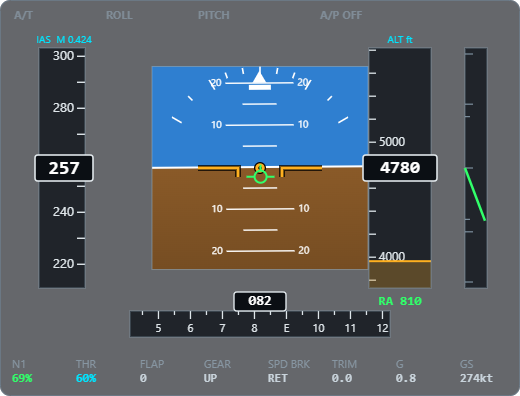
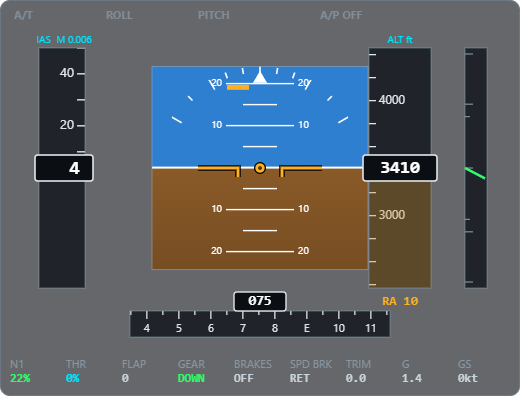
improved take-off somewhat

diff --git a/src/aircraft.js b/src/aircraft.js
@@ -108,6 +108,50 @@ export class Aircraft {
 
   get grossMass() { return OEW + PAYLOAD + this.fuel; }
 
+  /** Lift/drag/moment increments for the flap position currently deployed. */
+  flapCoeffs() {
+    let hi = FLAP_SETTINGS.findIndex(v => v >= this.flapActual - 1e-6);
+    if (hi < 0) hi = FLAP_SETTINGS.length - 1;
+    const lo = Math.max(0, hi - 1);
+    const span = FLAP_SETTINGS[hi] - FLAP_SETTINGS[lo] || 1;
+    const fr = clamp((this.flapActual - FLAP_SETTINGS[lo]) / span, 0, 1);
+    const l = arr => arr[lo] + (arr[hi] - arr[lo]) * fr;
+    return { dCL: l(FLAP_DCL), dCD: l(FLAP_DCD), dCm: l(FLAP_DCM), dAstall: l(FLAP_DASTALL) };
+  }
+
+  /**
+   * Put the aeroplane into hands-off, wings-level, 1 g flight: pitch attitude at
+   * the trim angle of attack, stabiliser trimmed to zero the pitching moment,
+   * and thrust set to balance drag. Without this you start out of trim and sink.
+   */
+  trimLevel(speed) {
+    const g = 9.80665;
+    const alt = Math.max(this.pos.y, 0);
+    const { rho, a } = isa(alt);
+    const V = Math.max(speed ?? this.vel.length(), 90);
+    const f = this.flapCoeffs();
+    const qbar = 0.5 * rho * V * V;
+
+    const CL = clamp(this.grossMass * g / (qbar * S), 0.05, 1.5);
+    const alpha = clamp((CL - 0.22 - f.dCL) / 5.35, -0.05, 0.20);
+    this.elevTrim = clamp(-(0.045 + f.dCm - 1.35 * alpha) / 0.30, -0.5, 0.5);
+
+    const hdg = this.headingDeg * Math.PI / 180;
+    this.quat.setFromEuler(new THREE.Euler(alpha, -hdg, 0, 'YXZ'));
+    this.vel.set(Math.sin(hdg) * V, 0, -Math.cos(hdg) * V);
+    this.omega.set(0, 0, 0);
+    this.elevator = 0; this.aileron = 0; this.rudder = 0;
+
+    const AR = B * B / S;
+    const k = 1 / (Math.PI * 0.80 * AR);
+    const CD = 0.0205 + f.dCD + 0.021 * this.gearPos + k * CL * CL;
+    const drag = qbar * S * CD;
+    const avail = 2 * T_MAX_ENG * Math.pow(rho / 1.225, 0.85) * (1 - 0.28 * clamp(V / a, 0, 0.9));
+    const n1 = 20 + 80 * Math.pow(clamp(drag / avail, 0, 1), 1 / 3);
+    this.n1 = [n1, n1];
+    this.throttle = clamp((n1 - 21) / 79, 0, 1);
+  }
+
   placeOnRunway(ap) {
     const dir = new THREE.Vector3(Math.sin(ap.hdg), 0, -Math.cos(ap.hdg));
     this.pos.set(ap.x - dir.x * 1200, ap.elev + 3.2, ap.z - dir.z * 1200);
@@ -117,8 +161,10 @@ export class Aircraft {
     this.throttle = 0; this.n1 = [22, 22];
     this.gearDown = true; this.gearPos = 1;
     this.flapIndex = 0; this.flapActual = 0;
-    this.parkBrake = true;
     this.resetTransient();
+    // Deliberately released: a parking brake at spawn silently makes the
+    // aeroplane un-takeoffable, and the annunciator only helps if you set it.
+    this.parkBrake = false;
   }
 
   resetTransient() {
@@ -133,17 +179,26 @@ export class Aircraft {
   placeAirborne(ap, distNM = 12, altFt = 6000) {
     const dir = new THREE.Vector3(Math.sin(ap.hdg), 0, -Math.cos(ap.hdg));
     const d = distNM * 1852;
-    this.pos.set(ap.x - dir.x * d, ap.elev + altFt * FT, ap.z - dir.z * d);
+
+    // Stay clear of whatever is between here and the field — inbound terrain can
+    // easily be higher than the airport, and starting inside a ridge is fatal.
+    let highest = ap.elev;
+    for (let s = 0; s <= 1.0001; s += 0.04) {
+      highest = Math.max(highest, terrainHeight(ap.x - dir.x * d * s, ap.z - dir.z * d * s));
+    }
+    const y = Math.max(ap.elev + altFt * FT, highest + 750);
+
+    this.pos.set(ap.x - dir.x * d, y, ap.z - dir.z * d);
     this.quat.setFromAxisAngle(new THREE.Vector3(0, 1, 0), -ap.hdg);
     this.vel.copy(dir).multiplyScalar(140);
-    this.omega.set(0, 0, 0);
-    this.throttle = 0.6; this.n1 = [70, 70];
     this.gearDown = false; this.gearPos = 0;
     this.flapIndex = 0; this.flapActual = 0;
     this.parkBrake = false;
     this.resetTransient();
-    this.ap.alt = altFt * FT;
+    this.trimLevel(140);              // hands-off straight and level
+    this.ap.alt = this.pos.y;
     this.ap.hdg = (ap.hdg * 180 / Math.PI + 360) % 360;
+    this.ap.spd = 140 * Math.sqrt(isa(Math.max(this.pos.y, 0)).rho / 1.225) / KT;
   }
 
   get headingDeg() {
@@ -232,16 +287,8 @@ export class Aircraft {
     this.agl = this.pos.y - groundY;
 
     // --- aerodynamic coefficients -----------------------------------------
-    const fi = this.flapActual / 40;
-    const fIdx = FLAP_SETTINGS.findIndex(v => v >= this.flapActual - 1e-6);
-    const lo = Math.max(0, fIdx - 1), hi = Math.max(0, fIdx);
-    const span = FLAP_SETTINGS[hi] - FLAP_SETTINGS[lo] || 1;
-    const fr = clamp((this.flapActual - FLAP_SETTINGS[lo]) / span, 0, 1);
-    const lerp = (arr) => arr[lo] + (arr[hi] - arr[lo]) * fr;
-    const dCLflap = lerp(FLAP_DCL);
-    const dCDflap = lerp(FLAP_DCD);
-    const dCmflap = lerp(FLAP_DCM);
-    const dAstall = lerp(FLAP_DASTALL);
+    const fc = this.flapCoeffs();
+    const dCLflap = fc.dCL, dCDflap = fc.dCD, dCmflap = fc.dCm, dAstall = fc.dAstall;
 
     const AR = B * B / S;
     const geH = Math.max(this.agl, 0) / B;
@@ -422,7 +469,8 @@ export class Aircraft {
     }
 
     const vs1g = this.stallSpeed();
-    this.stallWarn = !onGround && V > 5 && (alpha > aStall * 0.92 || this.ias < vs1g * 1.03);
+    this.stallWarn = !onGround && this.agl > 3 && V > 5
+      && (alpha > aStall * 0.92 || this.ias < vs1g * 1.03);
     this.overspeed = this.ias > 340 * KT || this.mach > 0.86;
   }
 

diff --git a/src/hud.js b/src/hud.js
@@ -298,6 +298,10 @@ export class PFD {
 
     if (ac.stallWarn) { g.fillStyle = RED; g.font = 'bold 15px "Segoe UI", sans-serif'; g.fillText('STALL', 404, 16); }
     else if (ac.overspeed) { g.fillStyle = RED; g.font = 'bold 15px "Segoe UI", sans-serif'; g.fillText('OVERSPEED', 380, 16); }
+    else if (ac.parkBrake) {
+      g.fillStyle = RED; g.font = 'bold 15px "Segoe UI", sans-serif';
+      g.fillText('PARK BRK', 396, 16);
+    }
   }
 
   bottom(g, ac, info) {
@@ -311,12 +315,14 @@ export class PFD {
       ['FLAP', String(FLAP_SETTINGS[ac.flapIndex]), ac.flapIndex ? GRN : '#c9d4dc'],
       ['GEAR', ac.gearPos > 0.99 ? 'DOWN' : ac.gearPos < 0.01 ? 'UP' : 'TRAN',
         ac.gearPos > 0.99 ? GRN : ac.gearPos < 0.01 ? '#c9d4dc' : AMB],
+      ['BRAKES', ac.parkBrake ? 'PARK' : ac.brake > 0.5 ? 'ON' : 'OFF',
+        ac.parkBrake ? RED : ac.brake > 0.5 ? AMB : '#c9d4dc'],
       ['SPD BRK', ac.spoilerCmd > 0.5 ? 'OUT' : 'RET', ac.spoilerCmd > 0.5 ? AMB : '#c9d4dc'],
       ['TRIM', (ac.elevTrim * 10).toFixed(1), '#c9d4dc'],
       ['G', ac.gLoad.toFixed(1), Math.abs(ac.gLoad - 1) > 1.2 ? AMB : '#c9d4dc'],
       ['GS', Math.round(Math.hypot(ac.vel.x, ac.vel.z) / KT) + 'kt', '#c9d4dc'],
     ];
-    let x = 12;
+    let x = 10;
     for (const [k, v, c] of cells) {
       g.fillStyle = 'rgba(150,170,185,0.7)';
       g.fillText(k, x, y - 7);
@@ -324,7 +330,7 @@ export class PFD {
       g.font = 'bold 12px "Consolas", monospace';
       g.fillText(v, x, y + 7);
       g.font = '11px "Segoe UI", sans-serif';
-      x += 64;
+      x += 56;
     }
   }
 }

diff --git a/src/main.js b/src/main.js
@@ -159,7 +159,7 @@ const actions = {
   togglePause() { ui.paused = !ui.paused; toast(ui.paused ? 'Paused' : 'Resumed'); },
   mapRange(d) { minimap.cycleRange(d); toast('Map range ' + [5, 10, 20, 40, 80, 160][minimap.rangeIdx] + ' NM'); },
   resetRunway() { const a = nearestAirport(); if (a) { ac.placeOnRunway(a); toast('Positioned at ' + a.name); } },
-  resetApproach() { const a = nearestAirport(); if (a) { ac.placeAirborne(a, 11, 3800); toast('On final for ' + a.name); } },
+  resetApproach() { const a = nearestAirport(); if (a) { ac.placeAirborne(a, 9, 3000); toast('On final for ' + a.name); } },
   ap(which) {
     const A = ac.ap;
     if (which === 'master') {
@@ -258,7 +258,7 @@ resize();
   const list = airportsNear(0, 0, 260000, 12);
   setAirportUniformData(list);
   const home = list[0];
-  if (home) ac.placeAirborne(home, 13, 4200);
+  if (home) ac.placeAirborne(home, 9, 3000);
   else { ac.pos.set(0, 3000, 0); ac.vel.set(0, 0, -150); }
   ac.ap.alt = ac.pos.y;
   syncApInputs();
@@ -507,7 +507,7 @@ window.addEventListener('pointerdown', () => audio.start(), { once: true });
 window.addEventListener('keydown', () => audio.start(), { once: true });
 
 // Debug handle (also handy from the browser console).
-window.SIM = { ac, ui, actions, renderer, scene, camera, terrain, weather, minimap, tick, setCam, airportsNear };
+window.SIM = { ac, ui, actions, controls, renderer, scene, camera, terrain, weather, minimap, tick, setCam, airportsNear };
 
 el('loadMsg').textContent = 'compiling shaders…';
 requestAnimationFrame(frame);

diff --git a/src/cockpit.js b/src/cockpit.js
@@ -5,7 +5,9 @@ import { makeLitMaterial } from './litMaterial.js';
 const Z0 = -13.05;                 // eye station
 const WINDSHIELD = Z0 - 1.55;      // front glass plane
 const EYE_Y = 0.88;
-export const EYE = new THREE.Vector3(-0.40, EYE_Y, Z0);
+// Centred on the aircraft's axis rather than in the left seat, so the view is
+// symmetric and the runway centreline sits in the middle of the screen.
+export const EYE = new THREE.Vector3(0, EYE_Y, Z0);
 
 const GLARE_Y = 0.40;              // top of the glareshield
 const TOP_Y = 1.62;                // top window frame
@@ -159,9 +161,10 @@ export function buildCockpit(pfdCanvas, ndCanvas) {
     m.rotation.z = tilt;
     g.add(m);
   };
-  pillar(0, 0.085, 0);
-  pillar(-1.02, 0.11, 0.06);
-  pillar(1.02, 0.11, -0.06);
+  // No centre post: the eye sits on the aircraft axis, so one there would stare
+  // straight down the runway centreline.
+  pillar(-0.98, 0.12, 0.06);
+  pillar(0.98, 0.12, -0.06);
   const topFrame = new THREE.Mesh(new THREE.BoxGeometry(3.6, 0.30, 0.85), frame);
   topFrame.position.set(0, TOP_Y + 0.10, WINDSHIELD + 0.30);
   topFrame.rotation.x = 0.20;

diff --git a/src/controls.js b/src/controls.js
@@ -143,7 +143,6 @@ export class Controls {
 
     ac.brake = held('KeyB') ? 1 : (pad && pad.buttons[0] && pad.buttons[0].pressed ? 1 : 0);
     ac.reverse = held('KeyR') ? 1 : 0;
-    if (ac.brake > 0 || Math.abs(this.pitchCmd) > 0.02) ac.parkBrake = ac.parkBrake && ac.brake === 0 && false || ac.parkBrake;
   }
 }
 

diff --git a/README.md b/README.md
@@ -17,6 +17,49 @@ Three.js import map will not load over `file://`).
 
 Screenshots of what it looks like are in `screenshots/`.
 
+## Your first flight
+
+You start already airborne, trimmed and hands-off on final approach to the
+nearest field. Let go of everything and the aeroplane will fly straight and
+level on its own — nothing needs to be held.
+
+### Taking off
+
+Press **Enter** to be placed at the start of a runway, then:
+
+1. **Flaps 5** — press `]` twice. The `FLAP` readout on the PFD should show `5`.
+2. **Full thrust** — hold **Shift** for about three seconds until `N1` reaches
+   100 % and `THR` shows `100%`. You will start rolling immediately; the
+   parking brake is off.
+3. **Keep straight** — use `Q` and `E` for the nosewheel if you drift. You
+   shouldn't need much.
+4. **Rotate at 150 kt** — watch the speed tape on the left of the PFD. At 150,
+   pull back gently: hold **↓** (or `S`) until the nose is about **13° up** on
+   the pitch ladder, then ease off. Do not pull past ~18° or you'll lose speed.
+5. **Gear up** once you have a positive climb — press `G`. The `GEAR` readout
+   goes `DOWN` → `TRAN` → `UP`.
+6. **Flaps up** passing about 1000 ft — press `[` twice.
+7. Trim off any stick force with `,` and `.` so you can let go of the yoke.
+
+That is roughly a 40-second ground roll and a 3000 fpm initial climb. To level
+off, press `1` to engage the autopilot — it captures the heading, altitude and
+speed you are at, and you can then type new ones into the panel on the right.
+
+### If it won't accelerate
+
+Check the PFD: a red **PARK BRK** flag at the top right, or `BRAKES: PARK` in
+the bottom strip, means the parking brake is set. Press **V** to release it.
+The engines cannot overcome it.
+
+### Landing
+
+Press **Backspace** to be placed on a 9 NM final. Then: gear down (`G`), flaps
+30 (`]` until `FLAP` shows `30`), and aim for about **145 kt**. Hold roughly
+700 fpm down — the green circle on the PFD is your flight path vector; put it
+on the runway threshold and that is where you will touch down. Flare gently at
+about 30 ft, close the throttle, and after touchdown press **Space** for the
+speedbrakes, hold **R** for reverse thrust and **B** for the wheel brakes.
+
 ## The aircraft
 
 A 737-800 class twinjet, modelled with a full six-degree-of-freedom rigid body:
@@ -94,7 +137,7 @@ for the full list.
 | Rudder | `Q` / `E` |
 | Throttle | `Shift` / `Ctrl`, or the mouse wheel |
 | Flaps | `[` / `]` |
-| Gear · brakes · parking brake | `G` · `B` (hold) · `V` |
+| Gear · wheel brakes · parking brake | `G` · `B` (hold) · `V` (toggle) |
 | Speedbrake · reversers | `Space` · `R` (hold) |
 | Pitch trim | `,` / `.` |
 | Autopilot | `1` master · `2` HDG · `3` ALT · `4` SPD |
